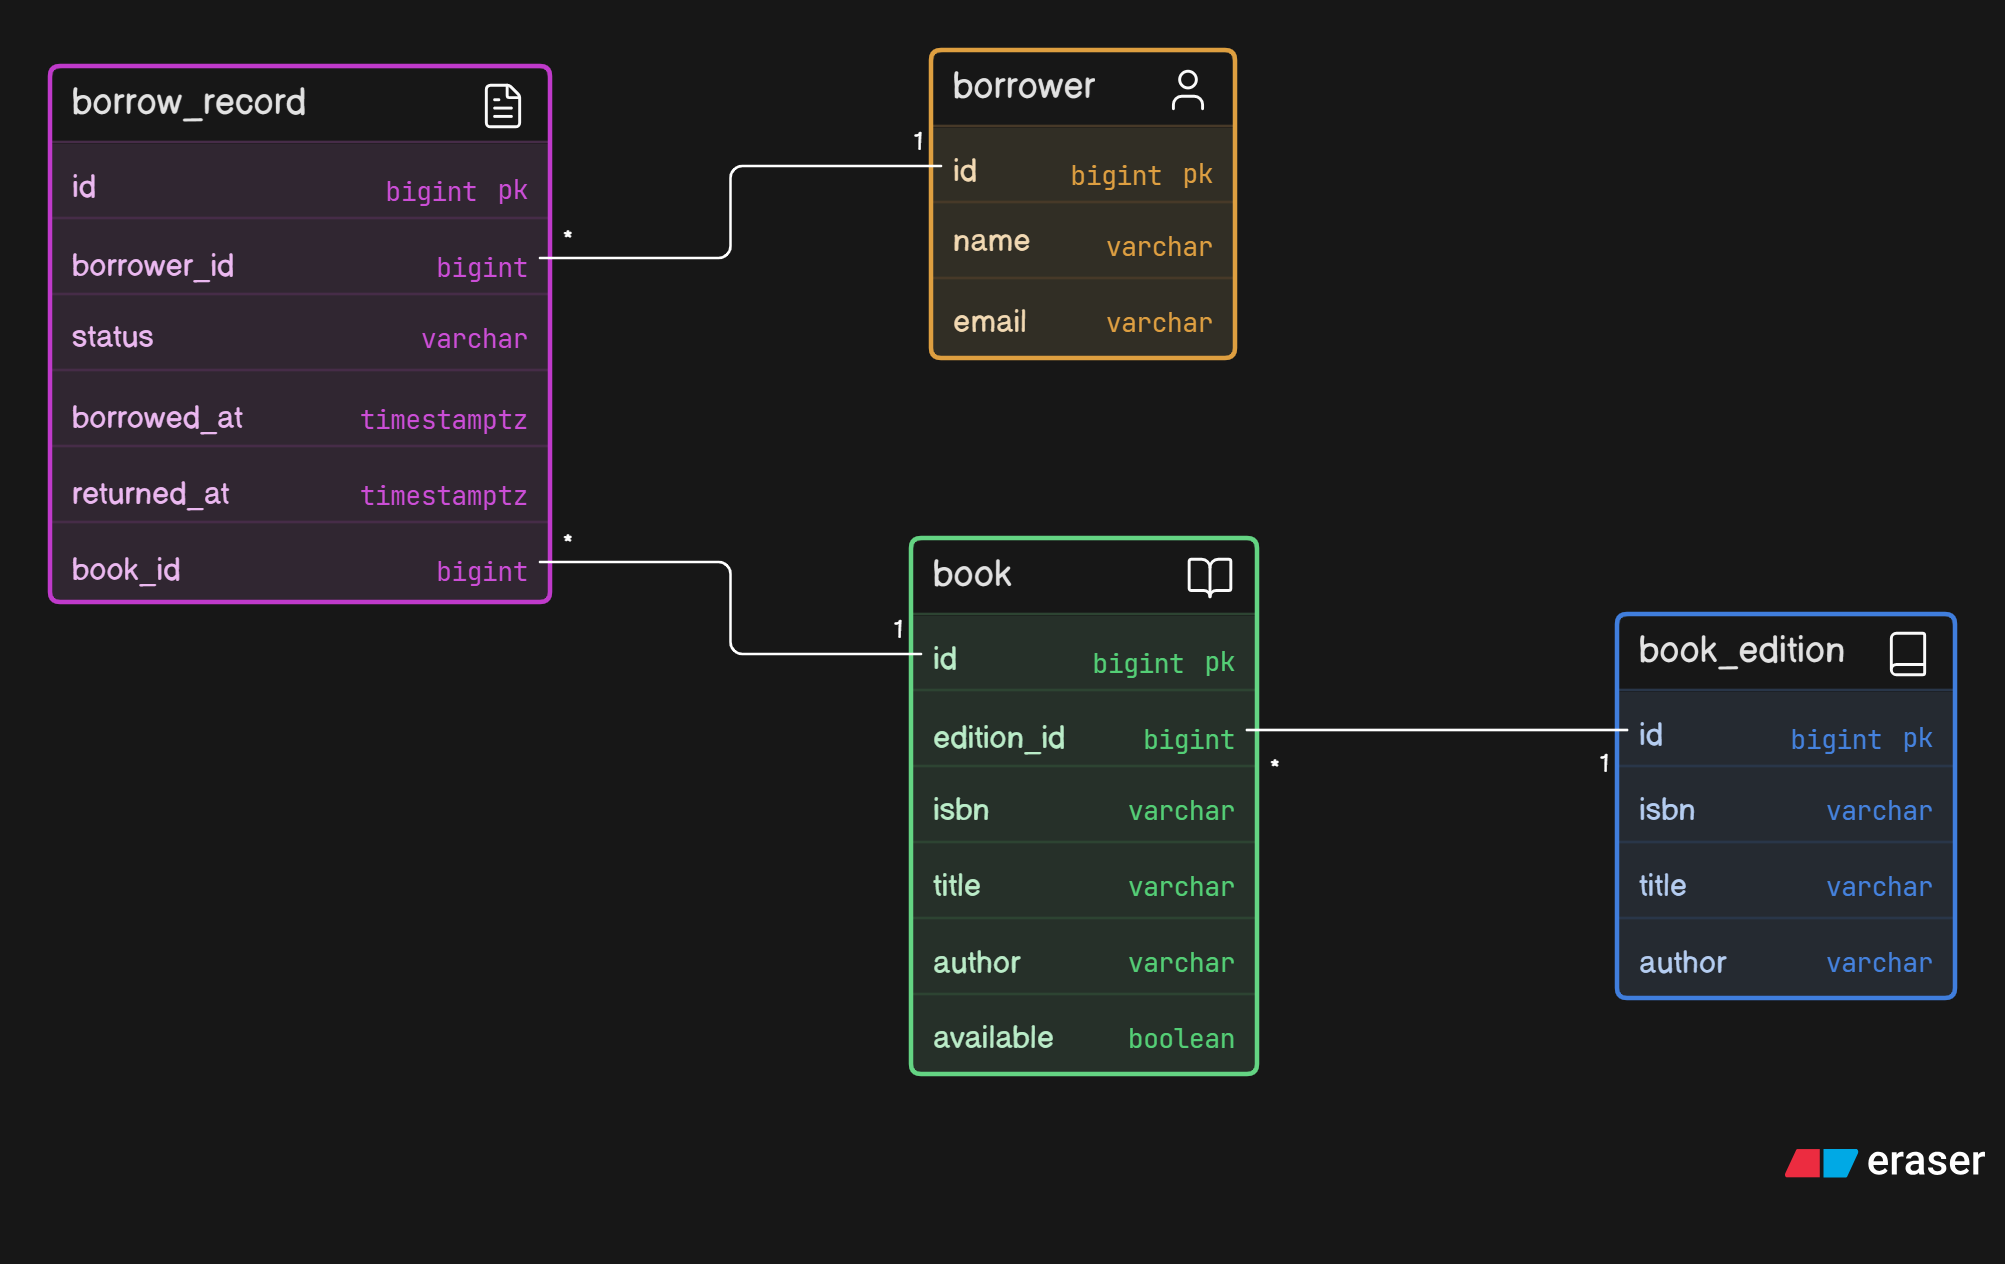
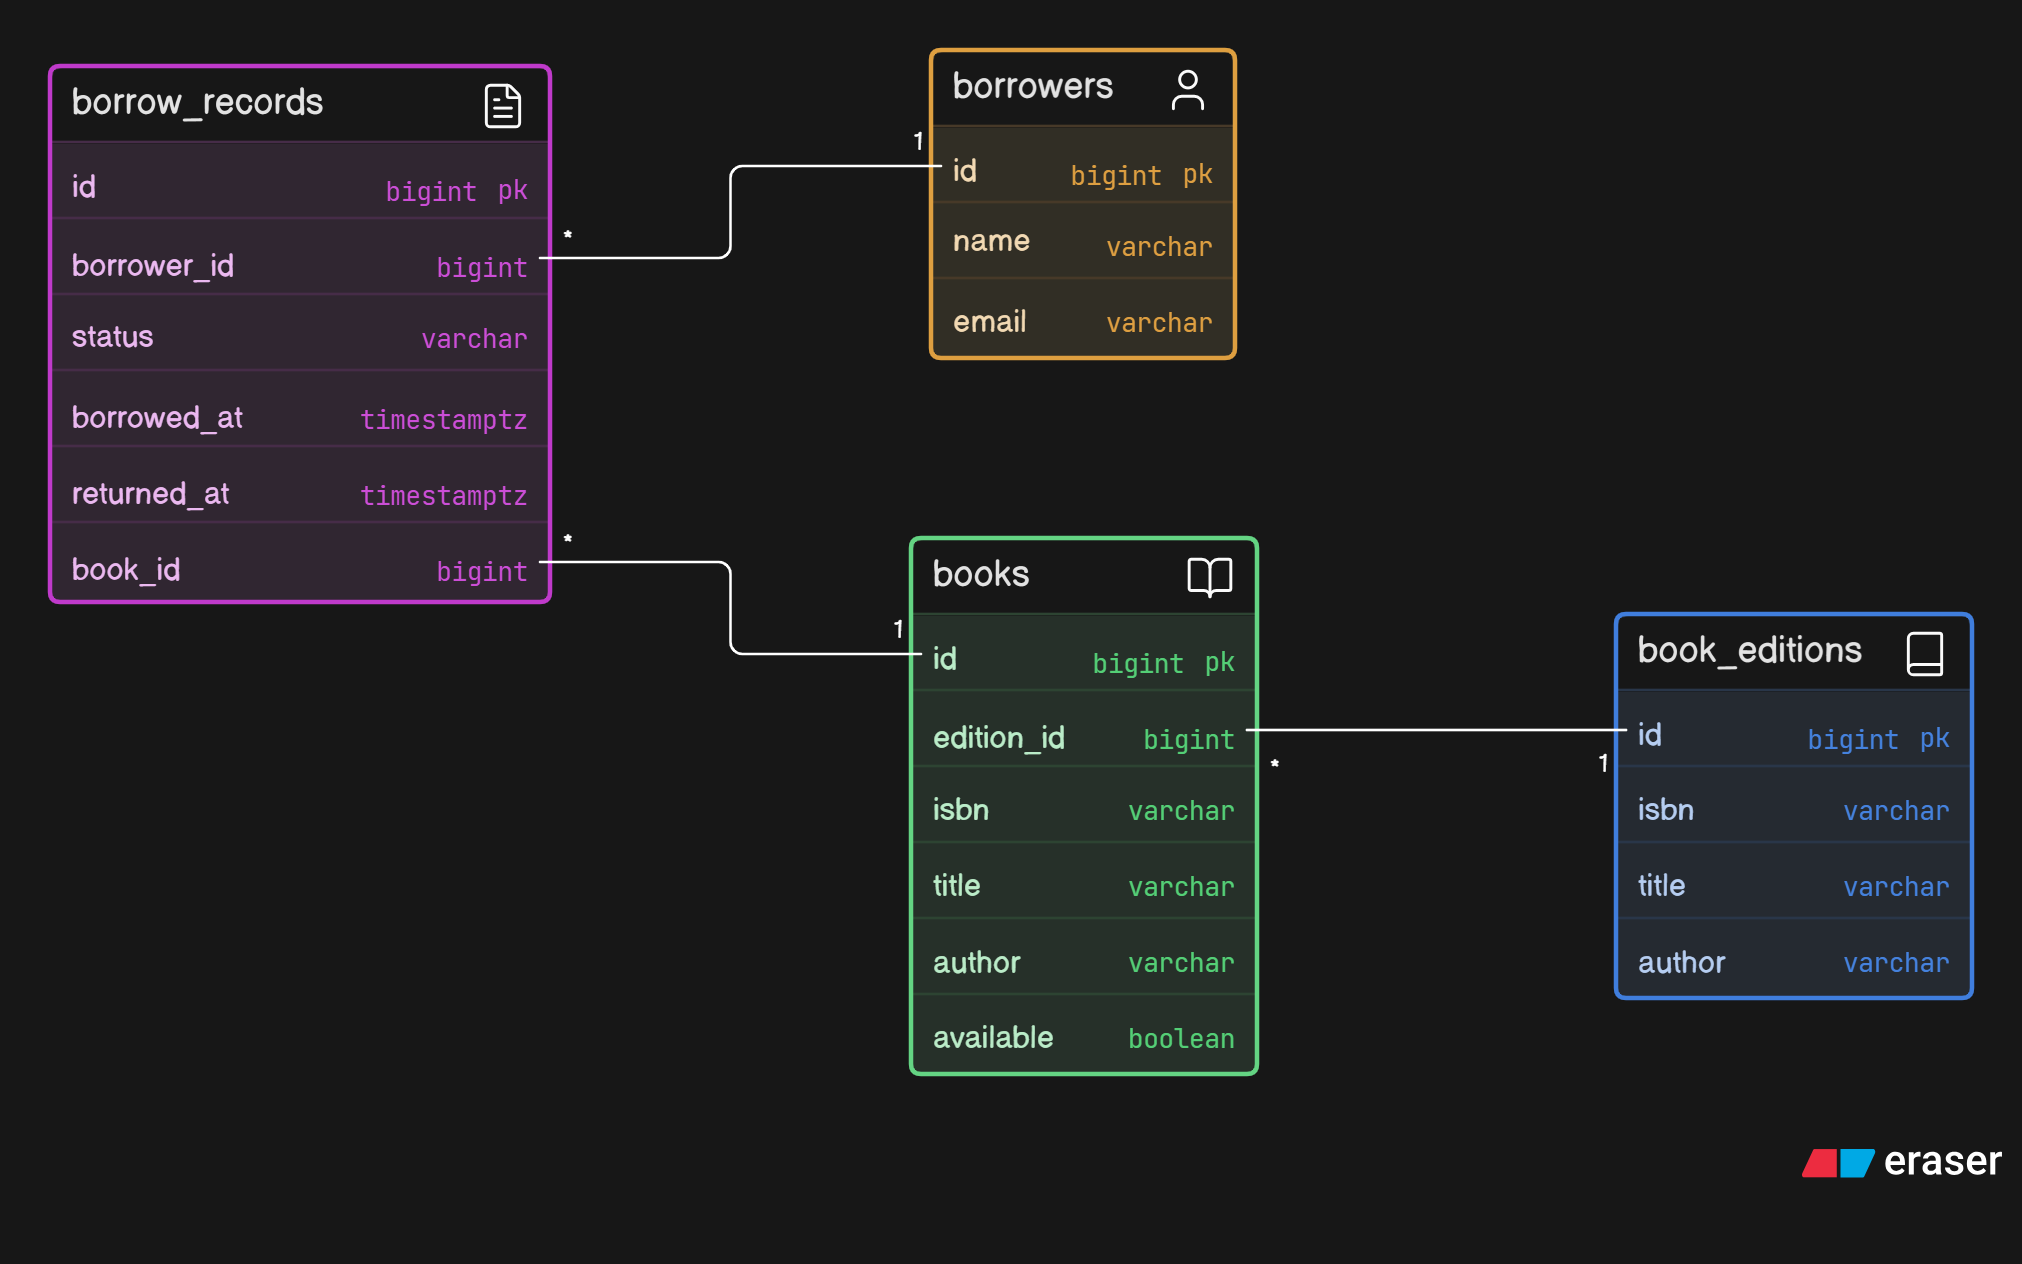
edit README

diff --git a/README.md b/README.md
@@ -260,7 +260,7 @@ All errors return a JSON body with either a string `error` field or a map of fie
 
 The repository includes a GitHub Actions workflow (`.github/workflows/ci.yml`) that runs on every push and pull request to the `main` branch. It compiles the project, runs tests, and packages the application.
 
-A **deploy** step is defined as a placeholder only — actual deployment is out of scope for this task. To enable deployment, replace the placeholder script with your target platform's deployment command.
+A **deploy** step is defined as a placeholder only, actual deployment is out of scope for this task.
 
 ---
 
@@ -282,4 +282,4 @@ A **deploy** step is defined as a placeholder only — actual deployment is out 
 
 8. **Timestamp precision** – All timestamps use `ZonedDateTime` (TIMESTAMPTZ in PostgreSQL) to handle timezone-aware date/time recording.
 
-9. **Sorting and searching by `isbn`, `title`, or `author` is not required, and the dataset is assumed small enough** that a `LEFT JOIN` to `book_editions` is not a performance concern. If these assumptions change, the columns can be duplicated to `books` without changing the API contract.
+9. **Sorting and searching by `isbn`, `title`, or `author` are out of scope.** – Using a `LEFT JOIN` to `book_editions` keeps the model normalized and sufficiently supports the required queries. If future requirements introduce filtering or sorting on these fields and profiling identifies the join as a bottleneck, the data model can be optimized (e.g., through denormalization or other techniques) without changing the API contract.
